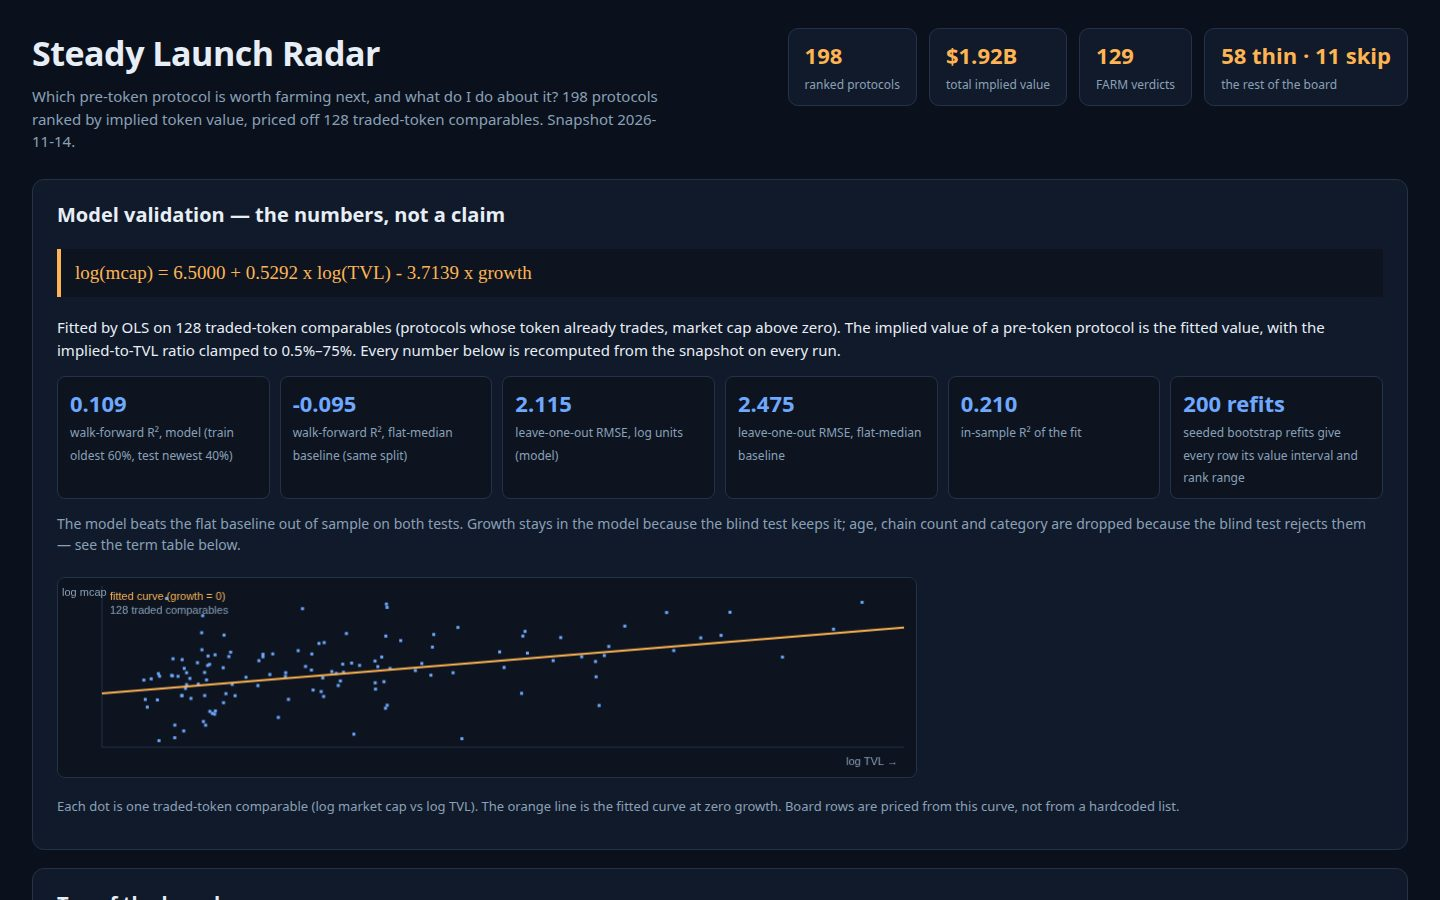
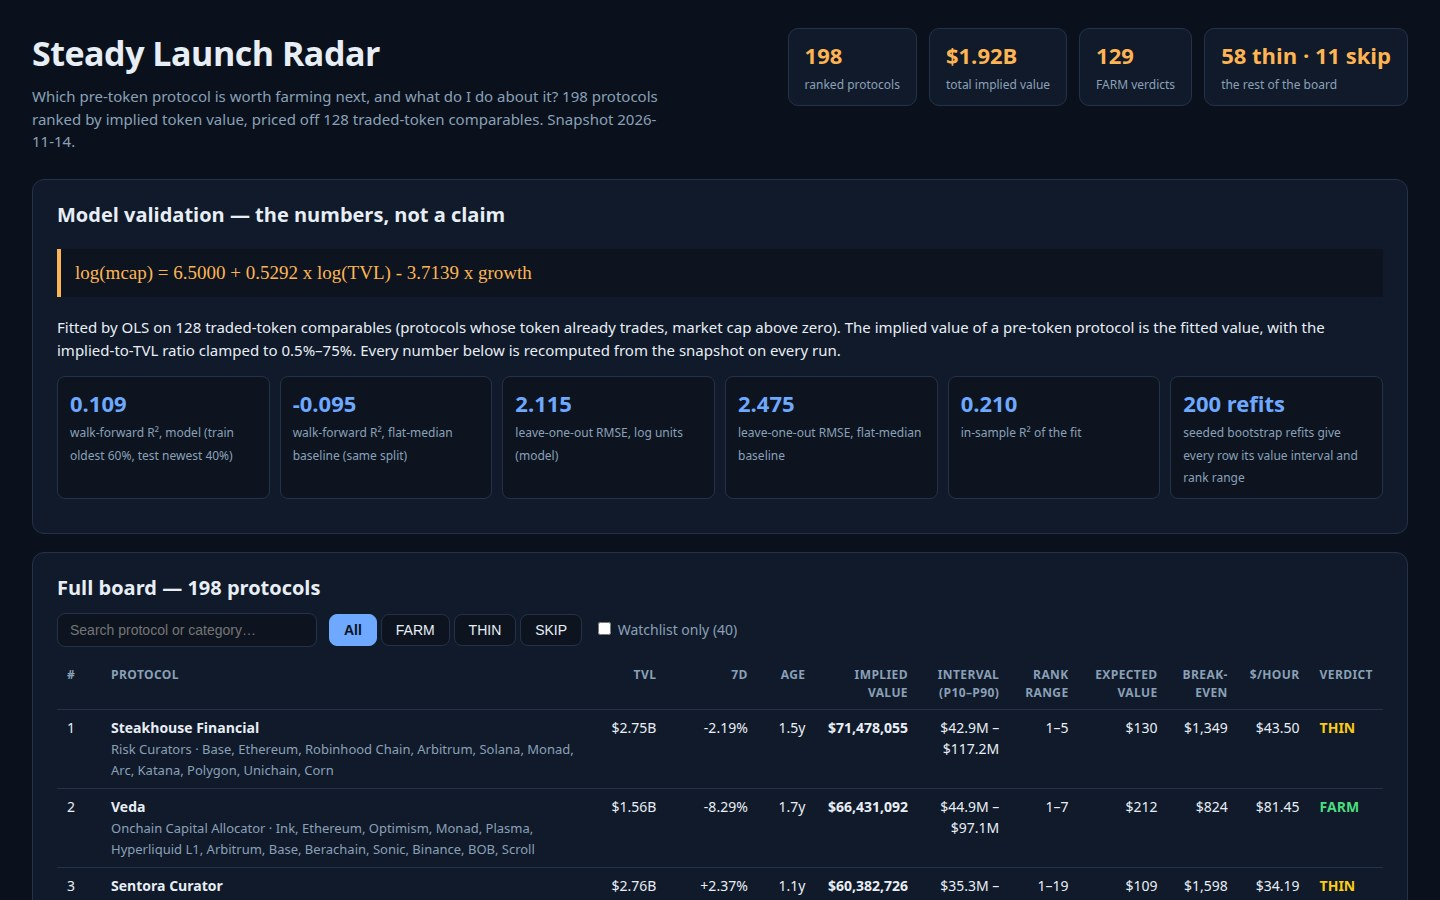
Fixer: vary farm step 3 per protocol; reframe shot 1 to show board rows
- Step 3 now names the protocol and chain and rotates among four
  sentence frames (slug hash, deterministic): 198/198 unique, was 13.
  Prose only; ranks, values, EV, break-even and $/hour unchanged.
- New ?shot=board-top mode: validation panel stays, scatter/note hidden,
  so the first screenshot shows the full board's top rows (1440x900).
- Re-verified: two fresh runs byte-identical, gate mirror 7/7, dossier
  byte-identical to buildDossier rebuild, kit check 4/1/15/5 (only
  transcripts_present, coordinator step).

diff --git a/lib/model.ts b/lib/model.ts
@@ -302,6 +302,18 @@ function categoryAction(p: SnapshotProtocol): string {
   return "complete one real transaction the protocol counts, then repeat it once a week";
 }
 
+// Step 3 of the farm plan varies per protocol: it names the protocol and
+// its chain, and rotates among four sentence frames picked by a small
+// hash of the slug, so the run stays byte-identical. Step 3 is prose
+// only — ranks, values, EV, break-even and $/hour are never touched here.
+const STEP3_FRAMES = 4;
+
+function step3Frame(p: SnapshotProtocol): number {
+  let h = 0;
+  for (let i = 0; i < p.slug.length; i++) h = (h * 31 + p.slug.charCodeAt(i)) >>> 0;
+  return h % STEP3_FRAMES;
+}
+
 function farmSteps(
   p: SnapshotProtocol,
   implied: number,
@@ -342,6 +354,40 @@ function farmSteps(
           " per hour of work, so the sized deposit stays at " +
           fmtUsd(deposit) +
           " and no top-up unless the implied value rises.";
+  const action = categoryAction(p);
+  const frame = step3Frame(p);
+  const step3 =
+    frame === 0
+      ? "Each week, " +
+        action +
+        " on " +
+        chain +
+        " for " +
+        p.name +
+        ", then record the transaction hash, the date and the position size in a simple log."
+      : frame === 1
+        ? "Once a week, " +
+          action +
+          " on " +
+          chain +
+          " to keep the " +
+          p.name +
+          " position active, and log the transaction hash, the date and the position size."
+        : frame === 2
+          ? "Every week, " +
+            action +
+            " through " +
+            p.name +
+            " on " +
+            chain +
+            "; write down the transaction hash, the date and the position size in a simple log."
+          : "Keep the " +
+            p.name +
+            " position live with one weekly action on " +
+            chain +
+            ": " +
+            action +
+            ". Record the transaction hash, the date and the position size each time.";
   return [
     "Set up a fresh wallet for " +
       p.name +
@@ -365,9 +411,7 @@ function farmSteps(
       ", " +
       fmtMoney(p.tvl_usd) +
       " TVL). This is the sized ticket for this protocol, not a maximum.",
-    "Each week, " +
-      categoryAction(p) +
-      " and record the transaction hash, the date and the position size in a simple log.",
+    step3,
     "Check the position every Sunday: exit the plan early if TVL falls 30% below " +
       fmtMoney(p.tvl_usd) +
       " (about " +

diff --git a/dashboard/app.js b/dashboard/app.js
@@ -231,10 +231,13 @@
   }
 
   document.addEventListener("DOMContentLoaded", function () {
-    // Screenshot modes (?shot=detail / ?shot=board): show one view at the
-    // top of the page, still rendered by this same dashboard code.
+    // Screenshot modes (?shot=detail / ?shot=board / ?shot=board-top): show
+    // one view at the top of the page, still rendered by this same
+    // dashboard code. board-top keeps the validation panel and pulls the
+    // board rows into the first 900 px, so the first screenshot shows the
+    // board itself, not just the panel above it.
     var shot = new URLSearchParams(window.location.search).get("shot");
-    if (shot === "detail" || shot === "board") document.body.classList.add("shot-" + shot);
+    if (shot === "detail" || shot === "board" || shot === "board-top") document.body.classList.add("shot-" + shot);
     var search = $("search");
     if (search) {
       search.addEventListener("input", function () {

diff --git a/dashboard/app.css b/dashboard/app.css
@@ -135,6 +135,16 @@ body.shot-board #top10,
 body.shot-board #detail,
 body.shot-board #model,
 body.shot-board footer { display: none; }
+/* board-top: validation panel stays, but the scatter (and its caption)
+   go, so the full board's first rows fit in the first 900 px. */
+body.shot-board-top .hero,
+body.shot-board-top #top10,
+body.shot-board-top #detail,
+body.shot-board-top #model,
+body.shot-board-top footer,
+body.shot-board-top #scatter,
+body.shot-board-top #validation p.muted,
+body.shot-board-top #validation p.note { display: none; }
 @media (max-width: 700px) {
   .top, section.panel { margin-left: 12px; margin-right: 12px; padding-left: 14px; padding-right: 14px; }
   .detail-grid { grid-template-columns: 1fr; }
